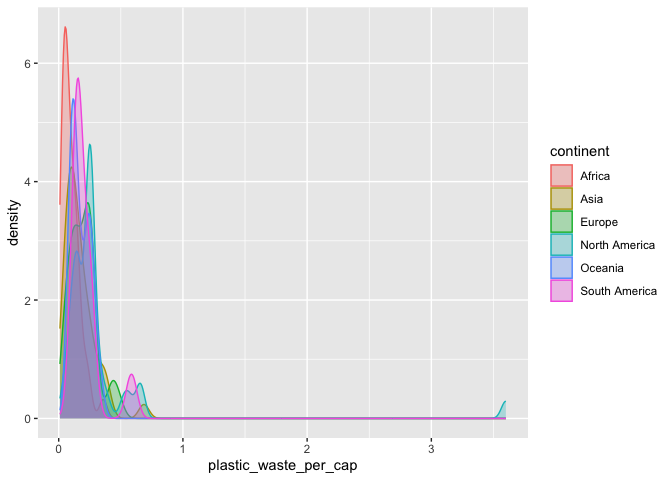
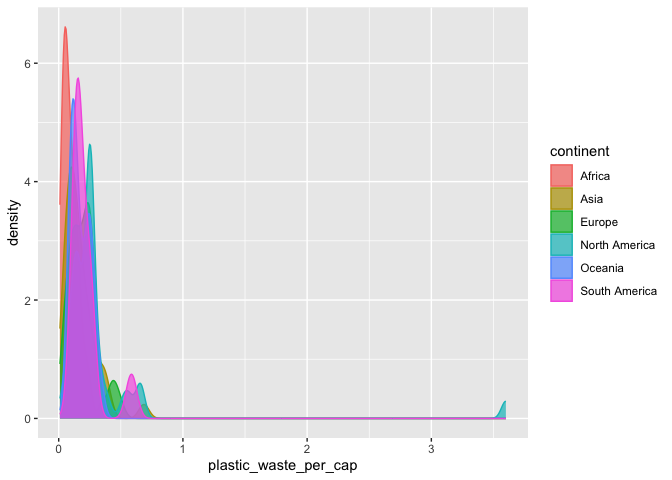
Exercise 2!

Changed region(s): [[0.0625, 0.0938, 0.2188, 0.875], [0.8125, 0.3438, 0.875, 0.625], [0.7188, 0.8438, 0.75, 0.875]]

diff --git a/lab-02.md b/lab-02.md
@@ -41,7 +41,7 @@ result, mainly because it is a country that I am not familiar with. It
 seems like they have high consumption of single-use plastics and limited
 recycling infrastructure.
 
-### Exercise 1
+### Exercise 1 Histogram
 
 It seems like there weren’t a lot of countries reported on Oceania and
 South America, so they seem to have less plastic waste. North America
@@ -83,16 +83,44 @@ Fill the curves of the density graph and adjust the transparency.
 ggplot(data = plastic_waste, 
        mapping = aes(x = plastic_waste_per_cap, color = continent,
                      fill = continent)) + 
-  geom_density(alpha = 0.3)
+  geom_density(alpha = 0.7)
 ```
 
 ![](lab-02_files/figure-gfm/fill%20density-1.png)<!-- -->
 
-### Exercise 2
+### Exercise 2 Recreate density plot
+
+To compare between mapping and setting/geom, I am trying out the
+following two ways. First, let’s use geom_density to define color and
+fill, and we use mapping to define alpha. The second way is to put color
+and fill in mapping while defining alpha in the setting/geom.
 
 ``` r
-# insert code here
+#The first way
+ggplot(data = plastic_waste, 
+       mapping = aes(x = plastic_waste_per_cap, alpha = 0.1)) + 
+  geom_density(color = "pink", fill = "blue")
 ```
+
+![](lab-02_files/figure-gfm/plastic-waste-density%20lower%20alpha-1.png)<!-- -->
+
+``` r
+#The second way
+ggplot(data = plastic_waste, 
+       mapping = aes(x = plastic_waste_per_cap, 
+                     color = continent, fill = continent)) +
+  geom_density(alpha = 0.1)
+```
+
+![](lab-02_files/figure-gfm/plastic-waste-density%20lower%20alpha-2.png)<!-- -->
+
+As we can see, if we define color and fill in geom_density, we cannot
+distinguish between each continent, as this will be a setting for all of
+the continents. If we put color and fill in mapping, we can ask R to map
+each continent using different colors. For alpha, when I put it in the
+mapping, no transparency took place. Also, we want the same transparency
+to be applied to each of the continent. This is why we just define alpha
+in the setting, so it can be applied globally.
 
 ### Exercise 3
 
